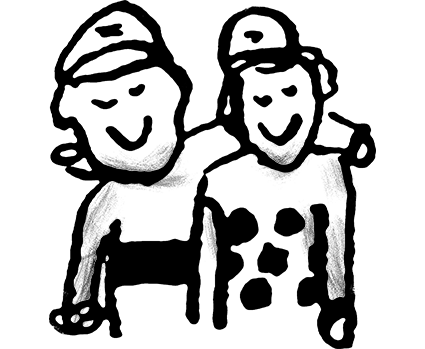
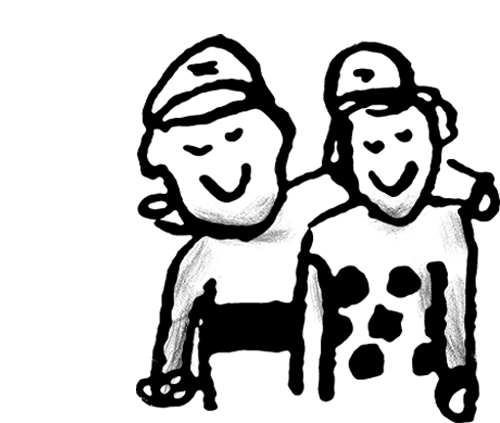
bangke horeng kiyeu

diff --git a/style.css b/style.css
@@ -50,7 +50,7 @@ html {
 }
 
 .mynavbar {
-  background-color: rgba(255, 255, 255, 0.3) !important;
+  /* background-color: rgba(255, 255, 255, 0.3) !important; */
   backdrop-filter: blur(4px);
 }
 
@@ -77,10 +77,12 @@ html {
     #91a8b3,
     #f1601e
   ); */
+  position: relative;
   font-family: "Apple Garamond";
   min-height: 100vh;
   padding-top: 61px;
   padding-bottom: 4rem;
+  offset-position: top;
 }
 
 .banner #image {
@@ -106,8 +108,13 @@ html {
 }
 
 .banner img {
-  padding-left: 70px;
-  object-fit: cover;
+  justify-content: center;
+  /* display: flex;
+  position: relative;
+  object-position: center; */
+  height: 97%;
+  padding-left: 30px;
+  /* object-fit: cover; */
 }
 
 .santunan a {
